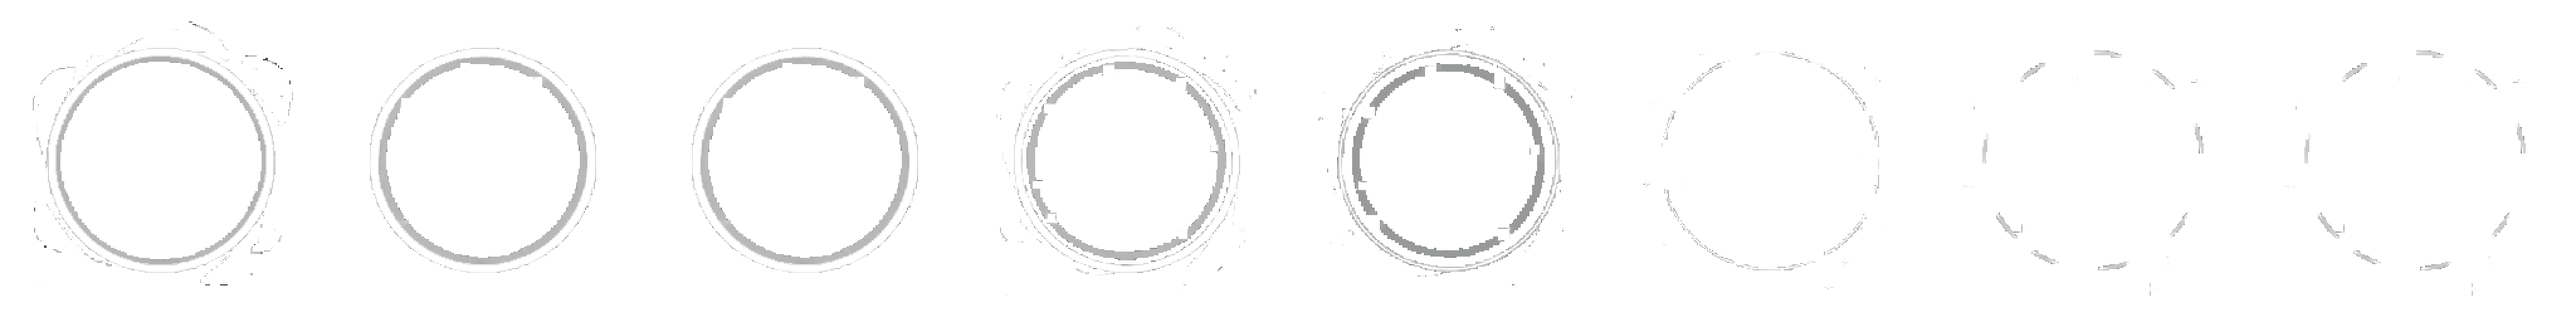
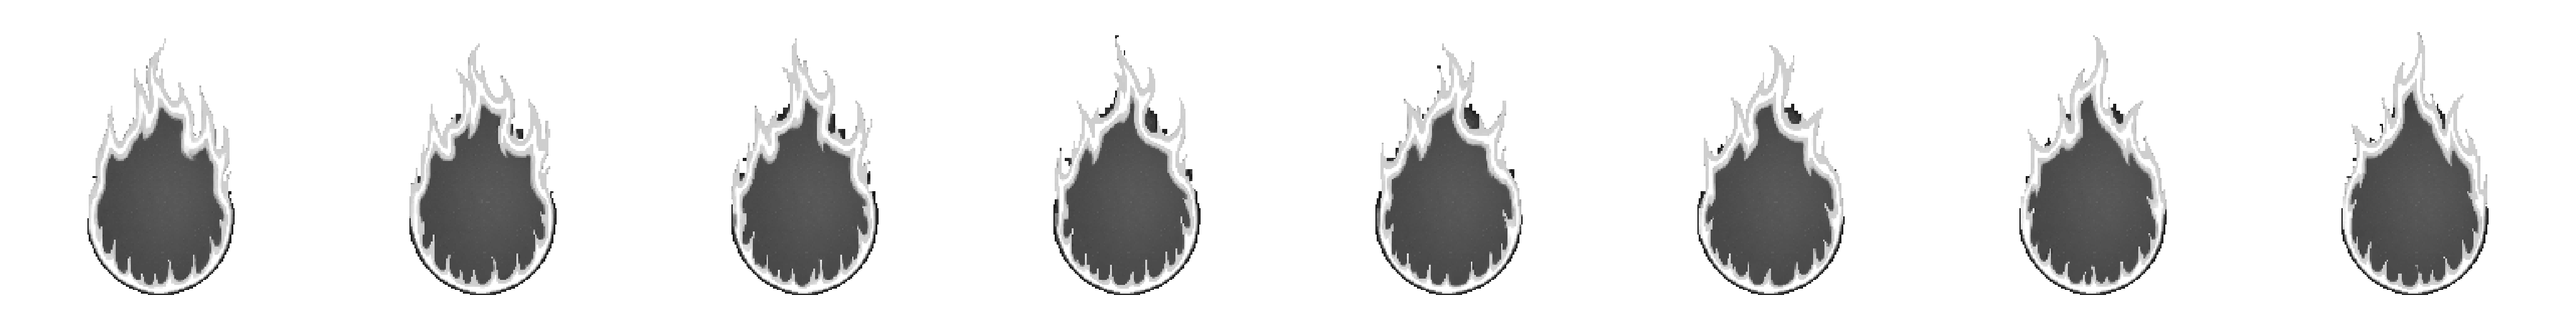
fix(hunt): the cloak stops being sliced, the bolt crosses the gap, the aura clings to the body — and the cooldown knob turns out to be empty
Seven things from one playtest. Five landed, one landed as the opposite of what was asked because the
measurement said so, and one could not land at all — that last one is the useful finding.

── THE CLOAK WAS BEING CUT, AND "MOVE HIM LEFT" WAS THE CAUSE ─────────────────────────────────────

UiKit.AnimSprite scales a SQUARE frame by the destination's HEIGHT, so the width it draws is the whole
frame at that scale however little of it the art fills — 557 px for a 430-tall champion box. The arena's
scissor starts at x=492, so at the centre of 700 an earlier pass had chosen, the cloak fell outside the
clip and came off against a straight vertical edge.

  * SidePadFraction trims the margin that is transparent in EVERY frame, symmetrically. The figure is
    pixel-identical — same height, same centre, same scale — it just stops claiming space it never used.
    The widest attack pose goes 557 -> 492.
  * That still is not enough to move LEFT. Measured across the whole roster the widest drawn clip is
    518 px, so the leftmost centre that does not clip is 492 + 259 = 751. The original 760 was right.
    "Karakteri de biraz sola al" and "spriteyi kesiyor" are the same pixel asking for opposite things,
    so the champion goes back inside the limit (755) and the SEPARATION comes from the pack, which has
    room and takes it (1380 -> 1430). The limit is now a comment nobody has to rediscover.
[…]

diff --git a/src/ResonanceHunter.Game/SoloExpeditionScreen.cs b/src/ResonanceHunter.Game/SoloExpeditionScreen.cs
@@ -146,10 +146,23 @@ public sealed class SoloExpeditionScreen
     // strip has no such slack — the generated frames are trimmed to their content, so the character
     // renders at exactly the box height and the champion suddenly stood a head taller than before,
     // dominating a stage it shares with enemies less than half that size.
-    private static readonly Rectangle ChampBox = new(700 - 200, GroundY - 430, 400, 430);   // 760 → 700 (2026-08-28: "the champion a little left")
+    // THE LEFT LIMIT IS MEASURED, NOT CHOSEN — 755, and it may not go lower without cutting the figure.
+    // The champion is drawn from a SQUARE frame scaled to the box's HEIGHT, so the widest pose in the
+    // roster covers 518 px at a 430-tall box (UiKit.SidePadFraction already trims the empty margin off
+    // that; before it, the same pose claimed 557). The arena's scissor starts at x=492, so a centre below
+    // 492 + 259 = 751 puts the cloak outside the clip and it comes off against a straight vertical edge.
+    //
+    // That is exactly what had happened: 760 was right, an earlier pass moved it to 700 for "the champion
+    // a little left", and the designer then reported the symptom without the cause — "kutucuğun sağ kenarı
+    // ... spriteyi kesiyor" and "karakteri de biraz sola al" in the same message. The two asks are the same
+    // pixel: moving left IS the cutting. So the champion goes back inside the limit and the SEPARATION the
+    // designer wanted comes from the pack instead, which has room to move right and does.
+    private static readonly Rectangle ChampBox = new(755 - 200, GroundY - 430, 400, 430);
     // Rev 3 §16.1: one normal enemy bottom-centred at (1160,735), visible ~320px (range 280–360). A boss is
     // drawn far larger from its own anchor (see the draw), so this box is the NORMAL-enemy size only.
-    private static readonly Rectangle EnemyBox = new(1380 - 218, GroundY - 440, 436, 440);   // 1320 → 1380 ("the enemies a little right")
+    // 1320 -> 1380 -> 1430. The pack carries the separation the designer asked for, because the champion
+    // could not: see the measured left limit above.
+    private static readonly Rectangle EnemyBox = new(1430 - 218, GroundY - 440, 436, 440);
 
     /// <summary>
     /// Does the champion need mirroring to face the enemies?
@@ -444,7 +457,11 @@ public sealed class SoloExpeditionScreen
     /// <summary>The authored clip length in replay ms at speed 1 — eight frames at the champion's rate.</summary>
     private const float ClipMs = 1000f * 8f / ChampionFps;
     /// <summary>The fastest a clip may be run to catch a beat. Past this the swing lands a beat late rather than blurring.</summary>
-    private const float MaxClipSpeed = 2.5f;
+    // 1.5, from 2.5. This is the ceiling on catching up when the champion came free INSIDE the window
+    // before a beat: at 2.5 the eight frames of a clip played in under half a second and the designer read
+    // it as dropped frames rather than as haste. Past this the contact lands a little late instead, which
+    // reads as a heavy blow — the trade the comment on UpdateChampionClip always intended.
+    private const float MaxClipSpeed = 1.5f;
     private float _enemyBaseHealth = 120f, _enemyBaseDamage = 9f;
     private WaveOutcome _outcome = WaveOutcome.Cleared;
 
@@ -1324,13 +1341,19 @@ public sealed class SoloExpeditionScreen
                 _vfx.Play(FxFor(Form.Strike), tx, ty, scale: EnemyScale(target, 1.25f), fps: 12f, tint: glow);
                 break;
             case Form.Projectile:
-                // The bolt flies left-to-right inside its own frame, so it is centred between the two figures.
-                // SCALED TO THE GAP IT CROSSES, not to the creature it hits: a Swarm creature used to
-                // get a 208 px bolt and a boss a 520 px one for the same flight. And 8 fps, not 14 —
-                // only the strip's first three frames carry the streak (measured coverage 5/11/9% then
-                // under 2%), so at 14 fps the bolt was over in 214 ms (review 2026-08-30).
-                _vfx.Play(FxFor(Form.Projectile), (ChampBox.Right + tx) / 2, ty,
-                          scale: Math.Clamp((tx - ChampBox.Right) / 104, 2, 5), fps: 8f, tint: glow);
+                // IT CROSSES THE GAP. It used to be played at the midpoint between the two figures and
+                // simply appear there — "projectile efektlerinin gitme animasyonu yok, direkt düşmanın
+                // üstünde çıkıyor" (2026-08-28). The strip itself is authored as an in-place spin, which
+                // is right and stays: only the renderer knows where the champion's hand and the target
+                // are this frame, so the renderer flies it (VfxPlayer's ToX/ToY, eased out).
+                //
+                // From the champion's near shoulder to the creature, and SCALED TO THE GAP it crosses
+                // rather than to the creature it hits — a Swarm creature used to get a 208 px bolt and a
+                // boss a 520 px one for the same flight. 8 fps, not 14: only the strip's first frames
+                // carry the streak, so at 14 fps the bolt was over in 214 ms.
+                _vfx.Play(FxFor(Form.Projectile), ChampBox.Right - 40, ChampBox.Center.Y + 30,
+                          scale: Math.Clamp((tx - ChampBox.Right) / 104, 2, 5), fps: 8f, tint: glow,
+                          toX: tx, toY: ty);
                 break;
             case Form.Aura:
                 _vfx.Play(FxFor(Form.Aura), ChampBox.Center.X, ChampBox.Center.Y + 20, scale: 3, fps: 12f, tint: glow);
@@ -3148,7 +3171,7 @@ public sealed class SoloExpeditionScreen
         // held frame is the pose the action ends in; without it the cut to idle was the "did it finish?"
         // the playtest could not read) — or the playhead is BEHIND the clip's start (a rewound fixture),
         // which would run it backwards; either way the commitment is over.
-        if (_clipName is not null && (_playheadMs >= _clipStartMs + ClipMs / _clipSpeed + ClipSettleMs || _playheadMs < _clipStartMs))
+        if (_clipName is not null && (_playheadMs >= _clipStartMs + ClipMs / _clipSpeed + SettleMs || _playheadMs < _clipStartMs))
         {
             _clipName = null;
             _idleFrom = _anim;   // the idle picks up from ITS first frame, not from a random loop phase
@@ -3187,7 +3210,7 @@ public sealed class SoloExpeditionScreen
         if (beatMs is null && _replay.LastTrapBefore(_playheadMs) is { } trapMs
             && _playheadMs - trapMs < TrapClipGraceMs)
         {
-            _clipSpeed = Math.Max(0.6f, ClipMs / (_beatMs * FormBehaviour.ClipShareOfBeat));
+            _clipSpeed = Math.Max(0.6f, ClipMs / (_beatMs * FormBehaviour.SkillClipShareOfBeat));
             _clipStartMs = trapMs;
             _clipName = "trap";
             return;
@@ -3198,7 +3221,13 @@ public sealed class SoloExpeditionScreen
         // EVERY action fills its share of the BEAT (FormBehaviour.ClipShareOfBeat): the sim acts on the
         // beat and only on it, so a clip sized to 0.65 of a beat — plus its settle — is always over
         // before the next action's clip may start, and a fast build visibly fights fast.
-        var baseSpeed = Math.Max(0.6f, ClipMs / (_beatMs * FormBehaviour.ClipShareOfBeat));
+        // A CAST IS NOT A SWING. Both used to take the same share of the beat, so TEMPO hurried them
+        // equally and a fast build ran eight frames of a Transformation past the eye — "frame atlıyormuş
+        // gibi". The swing keeps the beat-scaled share (so Tempo is felt ON THE SWING, which is what the
+        // designer asked for) and now takes LESS of it, leaving more beat standing after it; a cast takes
+        // more, so it plays close to its authored second.
+        var share = clip == "attack" ? FormBehaviour.ClipShareOfBeat : FormBehaviour.SkillClipShareOfBeat;
+        var baseSpeed = Math.Max(0.6f, ClipMs / (_beatMs * share));
         var contactMs = ClipMs * ContactFraction / baseSpeed;
         var lead = beatMs.Value - _playheadMs;
         if (lead > contactMs) return;   // not yet: the clip starts one contact-length before the beat
@@ -3245,7 +3274,24 @@ public sealed class SoloExpeditionScreen
     private float _beatMs = SoloBattle.DefaultBeatMs;
 
     /// <summary>The settle on an action clip's last frame before idle, ms — the readable END of an action.</summary>
-    private const float ClipSettleMs = 150f;
+    /// <remarks>
+    /// 300, from 150 (designer, 2026-08-28: "karakter idle'ye alıp bekliyor sonraki animasyondan önce.
+    /// Bu süreyi biraz daha arttırabiliriz"). This is a CEILING, not a duration — see <see cref="SettleMs"/>.
+    /// </remarks>
+    private const float ClipSettleMs = 300f;
+
+    /// <summary>
+    /// The settle actually taken: the ceiling, or whatever is left of the beat after the clip, whichever
+    /// is smaller.
+    /// </summary>
+    /// <remarks>
+    /// A flat settle added to a clip already sized as a SHARE OF THE BEAT can push the pair past the beat,
+    /// and a clip is a commitment — so the overrun would not shorten the pose, it would swallow the NEXT
+    /// action's clip and the champion would stand still through a swing it really made. Clamping keeps
+    /// the pause as long as the fight can afford and never longer. On a slow build that is the full 300 ms;
+    /// on a fast one it shrinks, which is correct — a fast build should look busy.
+    /// </remarks>
+    private float SettleMs => Math.Min(ClipSettleMs, Math.Max(0f, _beatMs - ClipMs / Math.Max(0.01f, _clipSpeed)));
 
     /// <summary>Wall-clock stamp of the last clip's end — the idle loop restarts from here, not mid-breath.</summary>
     private float _idleFrom;
@@ -3292,18 +3338,29 @@ public sealed class SoloExpeditionScreen
     private const float AuraPulseSeconds = FormBehaviour.AuraTickMs / 1000f;
 
     /// <summary>
-    /// The aura's pulse: the authored fx_aura ring at the champion, in the Aura's Source colour, GROWING
-    /// across its life until it washes over the enemy row — an always-on field that never touches the
-    /// champion's own animation.
+    /// The aura's pulse: the authored fx_aura in the Aura's Source colour, WRAPPED AROUND THE CHAMPION —
+    /// an always-on field that never touches the champion's own animation.
     /// </summary>
     /// <remarks>
     /// Three tries. A fixed strip at the champion read as a decoration; a ring drawn from line segments
     /// read as thin and, because it was clocked on the REPLAY's playhead, it froze on screen the moment
     /// a wave ended and the playhead stopped (playtest 2026-08-29: "the aura effect freezes on screen
     /// when the wave ends... the first effect was good, if you can give it the expansion it would be very
-    /// good"). So: the first effect, with growth, on the wall clock — VfxPlayer updates with real dt and
-    /// is cleared at every wave start, so nothing can be left standing. GrowTo 5.2 takes the ring from
-    /// 312 px across to about 1620, so its last frames wash over the pack.
+    /// good"). So: the first effect, on the wall clock — VfxPlayer updates with real dt and is cleared at
+    /// every wave start, so nothing can be left standing.
+    ///
+    /// FOURTH SHAPE, 2026-08-28, and it deliberately UNDOES the third. The growth that washed over the
+    /// pack (GrowTo 5.2, 312 px out to ~1620) came from "the circle should widen as far as the enemies";
+    /// the same designer has now asked for the opposite and been specific about it: "karakteri saran bir
+    /// aura (gerçekten HxH'daki aura gibi), hareketli ve tetiklenme anında en parlak anına çıkıp,
+    /// tetiklenmeden sonra tamamen olmayacak şekilde sönüp tekrar parlama". A field that reaches the pack
+    /// and a field that clings to the body are different pictures and only one of them can be on screen,
+    /// so the later instruction wins and the earlier one is recorded here rather than quietly dropped.
+    ///
+    /// The shape that makes it read: scale 4.4 (about 458 px, so it stands the champion's full height),
+    /// a small GrowTo 1.22 for the breath outward, and the strip's own upward flow for the movement. The
+    /// dying is free — VfxPlayer.Fade eases every effect to nothing across its final third, so a pulse is
+    /// brightest at the tick that spawned it and gone before the next one, which IS "sönüp tekrar parlama".
     /// </remarks>
     /// <summary>The field's own metronome — see the note at its call site in UpdateFight.</summary>
     private void PulseAuraOnClock(float dt)
@@ -3317,8 +3374,13 @@ public sealed class SoloExpeditionScreen
     {
         if (_auraColour is not { } colour) return;
         _auraSincePulse = 0f;
-        _vfx.Play("fx_aura", ChampBox.Center.X, ChampBox.Center.Y + 30, scale: 3, fps: 11f,
-                  tint: colour, growTo: 5.2f);
+        // FxFor, not the literal key it used to be: PlayFormVfx's Form.Aura arm already resolved the
+        // per-character effect and this one did not, so the two ways the game can draw an aura could
+        // silently disagree. (That arm is unreachable today — Aura is passive and emits no cast event —
+        // but the slot rework the designer wants will decide what a passive slot emits, and a key that
+        // is right in one place and hard-coded in the other is how these come apart.)
+        _vfx.Play(FxFor(Form.Aura), ChampBox.Center.X, ChampBox.Center.Y + 10, scale: 4.4f, fps: 11f,
+                  tint: colour, growTo: 1.22f);
     }
     private int _auraTotal, _auraTotalMs = -1;
 

diff --git a/src/ResonanceHunter.Game/UiKit.cs b/src/ResonanceHunter.Game/UiKit.cs
@@ -108,6 +108,7 @@ public sealed class UiKit
     private readonly Texture2D _blob;
     private readonly System.Collections.Generic.Dictionary<string, float> _topPadCache = new();
     private readonly System.Collections.Generic.Dictionary<string, float> _bottomPadCache = new();
+    private readonly System.Collections.Generic.Dictionary<string, float> _sidePadCache = new();
 
     public UiKit(GraphicsDevice device, PixelFont font, AssetLibrary assets)
     {
@@ -188,6 +189,55 @@ public sealed class UiKit
     /// Callers that must stand something on the floor use <see cref="SpriteGrounded"/>, which pushes the
     /// draw down by this fraction so the opaque sole meets <c>box.Bottom</c>.
     /// </remarks>
+    /// <summary>
+    /// Empty columns on BOTH sides of an animation strip, as a fraction of FRAME width — the least any
+    /// frame has, so trimming by it can never cut the one frame that reaches furthest.
+    /// </summary>
+    /// <remarks>
+    /// <para>
+    /// The twin of <see cref="TopPadFraction"/>, and it fixes a CLIPPED figure rather than a small one.
+    /// <see cref="AnimSprite"/> scales a SQUARE frame by the destination's HEIGHT, so the width it draws
+    /// is the frame's full width at that scale whatever the art actually fills. The generated champion
+    /// strips are letterboxed on every side, so a 430-tall champion box drew 573 pixels wide; centred at
+    /// x=700 that reaches x=413, and the arena's scissor starts at 492. The cloak came off against a
+    /// straight vertical edge (playtest 2026-08-28: "spriteyi kesiyor").
+    /// </para>
+    /// <para>
+    /// SYMMETRIC, and measured across the WHOLE strip — both deliberately. Cropping each side to its own
+    /// content would re-centre a figure the artist placed off-centre and make it jump between frames;
+    /// taking the least pad of any frame keeps every pose intact. What is removed is margin transparent
+    /// in all eight frames, so the visible figure is pixel-identical and only its rectangle shrinks.
+    /// </para>
+    /// </remarks>
+    public float SidePadFraction(string key)
+    {
+        if (_sidePadCache.TryGetValue(key, out var cached)) return cached;
+        var frac = 0f;
+        if (Assets.Get(key) is { } t && t is { Width: > 0, Height: > 0 })
+        {
+            var fw = t.Height;                       // square frames
+            var frames = Math.Max(1, t.Width / fw);
+            var data = new Color[t.Width * t.Height];
+            t.GetData(data);
+            var least = fw / 2;                      // the tightest pad found on any frame, either side
+            for (var f = 0; f < frames; f++)
+            {
+                int left = fw, right = fw;
+                for (var x = 0; x < fw && left == fw; x++)
+                    for (var y = 0; y < t.Height; y++)
+                        if (data[y * t.Width + f * fw + x].A > 8) { left = x; break; }
+                for (var x = fw - 1; x >= 0 && right == fw; x--)
+                    for (var y = 0; y < t.Height; y++)
+                        if (data[y * t.Width + f * fw + x].A > 8) { right = fw - 1 - x; break; }
+                if (left == fw) continue;            // an empty frame says nothing about the margin
+                least = Math.Min(least, Math.Min(left, right));
+            }
+            frac = Math.Max(0, least - 1) / (float)fw;   // a pixel of slack, so no soft edge is shaved
+        }
+        _sidePadCache[key] = frac;
+        return frac;
+    }
+
     public float BottomPadFraction(string key)
     {
         if (_bottomPadCache.TryGetValue(key, out var cached)) return cached;
@@ -270,9 +320,17 @@ public sealed class UiKit
         // Fitting the whole square frame instead left the figure tiny and "boxed" inside the panel.
         var cropY = (int)(fw * Math.Clamp(topCrop, 0f, 0.6f));
         var srcH = tex.Height - cropY;
-        var src = new Rectangle(i * fw, cropY, fw, srcH);
+        // ...and the same for the SIDES, symmetrically. The frame is SQUARE and the scale comes from the
+        // HEIGHT, so a 430-tall box drew a 573-wide sprite — 170px of it empty margin — and on the
+        // champion (centred at x=700, in an arena whose scissor starts at 492) that margin plus the cloak
+        // fell outside the clip and the figure was sliced by a straight vertical edge. Trimming the
+        // margin that is empty in EVERY frame changes no pixel of the figure — same height, same centre,
+        // same scale — it only stops the draw claiming space the art never used.
+        var cropX = (int)(fw * Math.Clamp(SidePadFraction(stripKey), 0f, 0.4f));
+        var srcW = fw - 2 * cropX;
+        var src = new Rectangle(i * fw + cropX, cropY, srcW, srcH);
         var sc = box.Height / (float)srcH;
-        var w = Math.Max(1, (int)(fw * sc));
+        var w = Math.Max(1, (int)(srcW * sc));
         // Same grounding as SpriteGrounded. The pad is measured once for the whole strip rather than
         // per frame on purpose: a per-frame sole would make the figure slide up and down as the
         // animation played. One offset for the clip keeps the feet planted while it animates.

diff --git a/src/ResonanceHunter.Core/Builds/FormBehaviour.cs b/src/ResonanceHunter.Core/Builds/FormBehaviour.cs
@@ -60,10 +60,32 @@ public static class FormBehaviour
     /// The time-counted cooldown; for a beat-counted Form this is its beats at action speed 1.0, for
     /// readouts and the wave-length rule (a cooldown must fit a wave).
     /// </summary>
-    // DOUBLED 2026-08-29 ("raise the skills' waiting times so the plain hit matters — we can even double
+    // DOUBLED 2026-08-27 ("raise the skills' waiting times so the plain hit matters — we can even double
     // them"): a rhythm skill costs twice as many actions, so the basic attack fills most of the beats and
     // TEMPO is felt on the swing rather than only between casts. The hits did NOT double with them — that
     // is the point; the balance was re-measured instead (see WeavingTuning.FormBaseValue).
+    //
+    // NOT RAISED AGAIN, 2026-08-28, and the attempt is recorded because the next person will have the
+    // same idea. The designer asked for longer waits — with four slots filled every beat was somebody's
+    // cast and they watched waves with no plain swing in them at all ("düz vuruş imkanı olmadığı senaryo
+    // bile yaşanıyor") — and this knob turned out to have no room left in it. THREE invariants, each
+    // found by running the suite rather than by reasoning:
+    //
+    //   * test_cooldowns_are_sized_to_a_wave_not_to_each_other — a cooldown longer than a WAVE can never
+    //     fire. Waves run 6-15 s, so the ceiling is 6 beats (9 s). STRIKE ALREADY SITS ON IT.
+    //   * test_projectile_trades_weight_for_volume — PROJECTILE is the light Form and must fire more
+    //     often than STRIKE. With Strike pinned at the ceiling, Projectile has one step (4->5) and no more.
+    //   * ...and that one step made WEAVER (SkillRate 0.70 for a second Form at 45%) a NET LOSS: 17306 ->
+    //     16516 damage, i.e. strictly worse than not taking it, because its price was set when casts were
+    //     four beats apart. Raising the three windows 8s->9s instead moved gleam/minute to x1.34 against
+    //     a 0.80-1.25 band, because ExpeditionTuning.WaveHaulScale is calibrated against clear time.
+    //
+    // So every available step buys a slower fight by breaking something the fight already promised. The
+    // problem is not the size of these numbers: it is that FOUR SKILLS DRAW ON ONE METRONOME, and the only
+    // way to give the swing its beats back is for some skills to stop taking one. That is the slot rework
+    // the designer wants to design in its own session (2 active + 2 passive; a passive costs no beat, the
+    // way Aura does today). Until then the FEEL was improved where it costs no balance — the swing takes a
+    // smaller share of the beat and a cast a larger one (see ClipShareOfBeat / SkillClipShareOfBeat).
     public static int BaseCooldownMs(Form form) => form switch
     {
         Form.Strike => 6 * SoloBattle.DefaultBeatMs,       // 9000 at speed 1.0
@@ -157,7 +179,30 @@ public static class FormBehaviour
     /// How much of a beat an action's clip fills (windup → contact → recovery); the rest is the settle
     /// back to idle that makes the action's END readable. 0.65 of 1500 ms ≈ the authored 1 s clip.
     /// </summary>
-    public const float ClipShareOfBeat = 0.65f;
+    public const float ClipShareOfBeat = 0.55f;
+
+    /// <summary>
+    /// The share of a beat a SKILL's clip fills. Larger than the swing's on purpose: a cast plays SLOWER.
+    /// </summary>
+    /// <remarks>
+    /// <para>
+    /// Both clips used to take the same 0.65 of a beat, so TEMPO hurried a cast exactly as hard as it
+    /// hurried a swing and at a real build's action speed the eight frames of a Transformation went by in
+    /// two thirds of a second — read as skipped frames rather than as speed (playtest 2026-08-28: "bazı
+    /// noktalarda karakter animasyonunu tam oynatmıyor, sanki frame atlıyormuş gibi").
+    /// </para>
+    /// <para>
+    /// Splitting them says what the designer asked for in one number each: "skill animasyon hızını biraz
+    /// daha yavaşlat, Tempo statı düz vuruşun animasyonunu hızlandırsın". The SWING got a smaller share
+    /// (0.65 -> 0.55), so it is quicker and leaves more of the beat standing — which is where the pause
+    /// between actions comes from; the CAST got a larger one, so it plays close to its authored second.
+    /// </para>
+    /// <para>
+    /// Both are fractions OF THE BEAT, so neither can ever overrun the action after it however fast the
+    /// build gets. That is the whole reason the number is a share and not a duration.
+    /// </para>
+    /// </remarks>
+    public const float SkillClipShareOfBeat = 0.90f;
 
     /// <summary>Is this Form the one BLOOD MAGIC switches off?</summary>
     public static bool Heals(Form form) => form == Form.Transformation;

diff --git a/src/ResonanceHunter.Game/VfxPlayer.cs b/src/ResonanceHunter.Game/VfxPlayer.cs
@@ -31,7 +31,36 @@ public sealed class VfxPlayer
         public required int Frames { get; init; }
         public required int CenterX { get; init; }
         public required int CenterY { get; init; }
-        public required int Scale { get; init; }
+
+        /// <summary>Where the effect ENDS. Equal to the centre for everything that stays put.</summary>
+        /// <remarks>
+        /// A projectile used to be played at the MIDPOINT between the champion and its target and simply
+        /// appeared there — the designer's words, 2026-08-28: "projectile efektlerinin gitme animasyonu
+        /// yok, direkt düşmanın üstünde çıkıyor". The strips are authored as IN-PLACE motion (a spin, a
+        /// tumble) and that stays right: crossing the gap is the RENDERER's job, because only the renderer
+        /// knows where the champion and the target actually are this frame.
+        /// </remarks>
+        public int ToX { get; init; }
+        public int ToY { get; init; }
+
+        /// <summary>The effect's position now — its start, eased toward its end across its life.</summary>
+        /// <remarks>
+        /// Eased out, not linear: a thrown thing leaves fast and arrives slowing, and a linear crossing
+        /// read as a sliding decal. The clock is <see cref="Life"/>, so the travel finishes exactly as the
+        /// last frame does however fast the strip is played.
+        /// </remarks>
+        public (int X, int Y) At
+        {
+            get
+            {
+                if (ToX == CenterX && ToY == CenterY) return (CenterX, CenterY);
+                var t = Life;
+                t = 1f - (1f - t) * (1f - t);
+                return (CenterX + (int)((ToX - CenterX) * t), CenterY + (int)((ToY - CenterY) * t));
+            }
+        }
+        /// <summary>Display multiplier of the 104 px base unit. FLOAT — the aura needs 4.4, not 4 or 5.</summary>
+        public required float Scale { get; init; }
 
         /// <summary>How much the effect swells over its life: 1 = the authored size, 4 = four times it by the last frame.</summary>
         public float GrowTo { get; init; } = 1f;
@@ -114,8 +143,8 @@ public sealed class VfxPlayer
     /// Spawn a strip animation centered at (x, y). Frame width is inferred from the sheet height
     /// (frames are square) unless <paramref name="frameW"/> is given for non-square strips.
     /// </summary>
-    public void Play(string key, int x, int y, int scale = 2, float fps = 18f, Color? tint = null, int frameW = 0,
-                     float delay = 0f, float growTo = 1f)
+    public void Play(string key, int x, int y, float scale = 2f, float fps = 18f, Color? tint = null, int frameW = 0,
+                     float delay = 0f, float growTo = 1f, int? toX = null, int? toY = null)
     {
         if (!Enabled) return;
         if (_assets.Get(key) is not { } sheet) return;
@@ -131,7 +160,9 @@ public sealed class VfxPlayer
             Frames = frames,
             CenterX = x,
             CenterY = y,
-            Scale = Math.Max(1, scale),
+            ToX = toX ?? x,
+            ToY = toY ?? y,
+            Scale = MathF.Max(1f, scale),
             GrowTo = MathF.Max(1f, growTo),
             SecondsPerFrame = 1f / MathF.Max(1f, fps),
             Tint = tint ?? Color.White,
@@ -172,7 +203,8 @@ public sealed class VfxPlayer
             // decoration ("the circle should widen as far as the enemies so there is a hit feeling").
             var h = (int)MathF.Round(a.Scale * 104 * (a.GrowTo <= 1f ? 1f : 1f + (a.GrowTo - 1f) * a.Life) / Scale);
             var w = h * a.FrameW / a.FrameH;
-            b.Draw(a.Sheet, new Rectangle(a.CenterX - w / 2, a.CenterY - h / 2, w, h), src, a.Tint * a.Fade);
+            var (ax, ay) = a.At;
+            b.Draw(a.Sheet, new Rectangle(ax - w / 2, ay - h / 2, w, h), src, a.Tint * a.Fade);
         }
         b.End();
         b.Begin(SpriteSortMode.Deferred, BlendState.AlphaBlend, SamplerState.LinearClamp, null, RestoreRasterizer ?? Rasterizer, null, Matrix.CreateScale(Scale));
